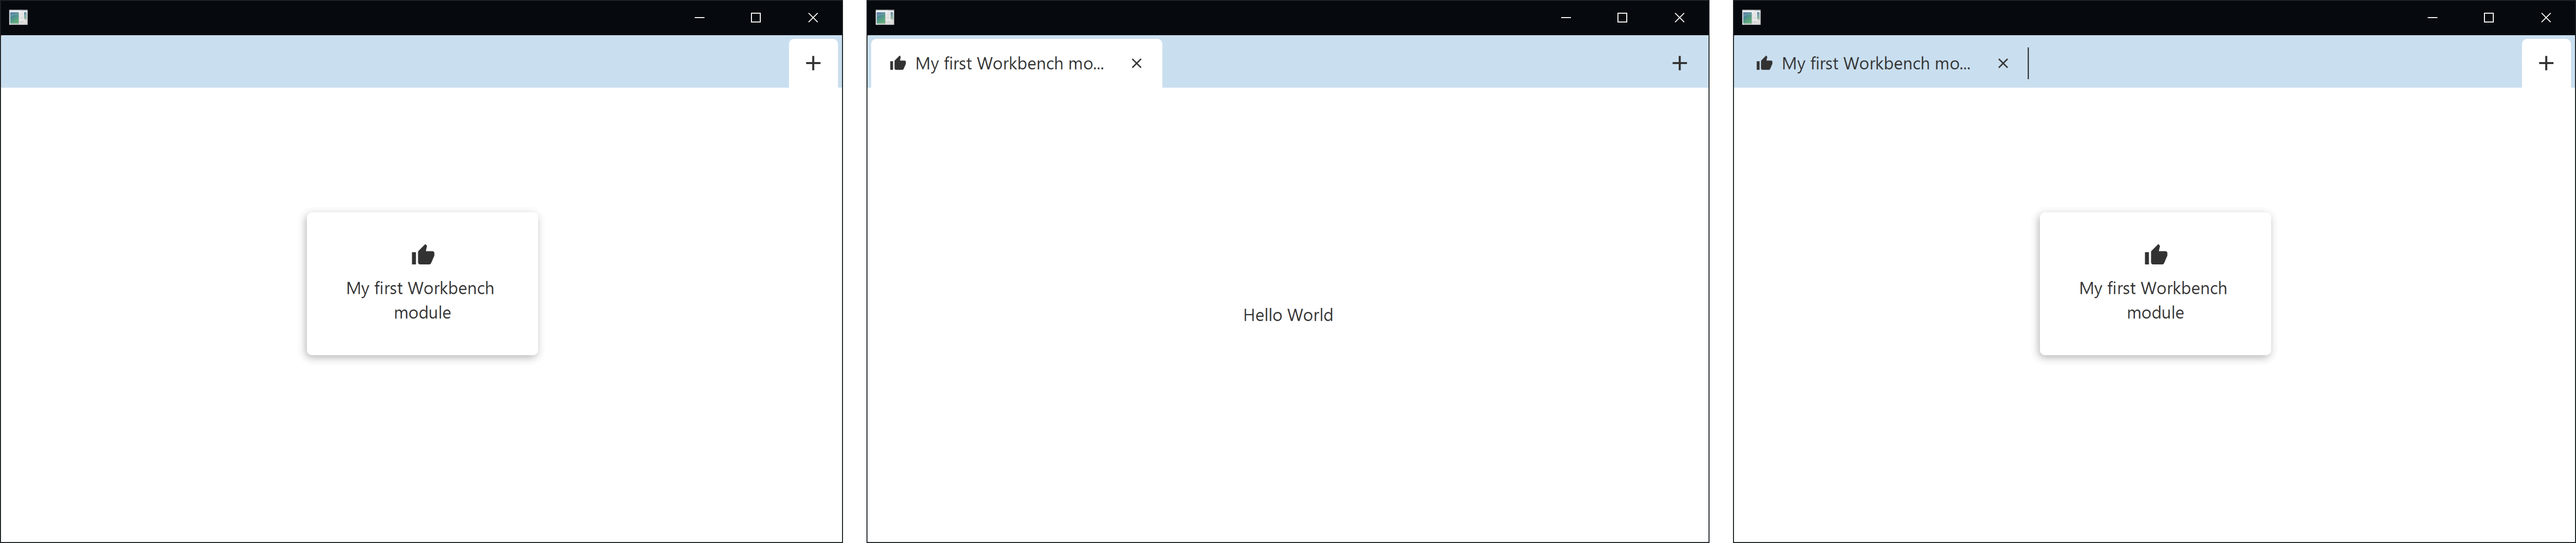
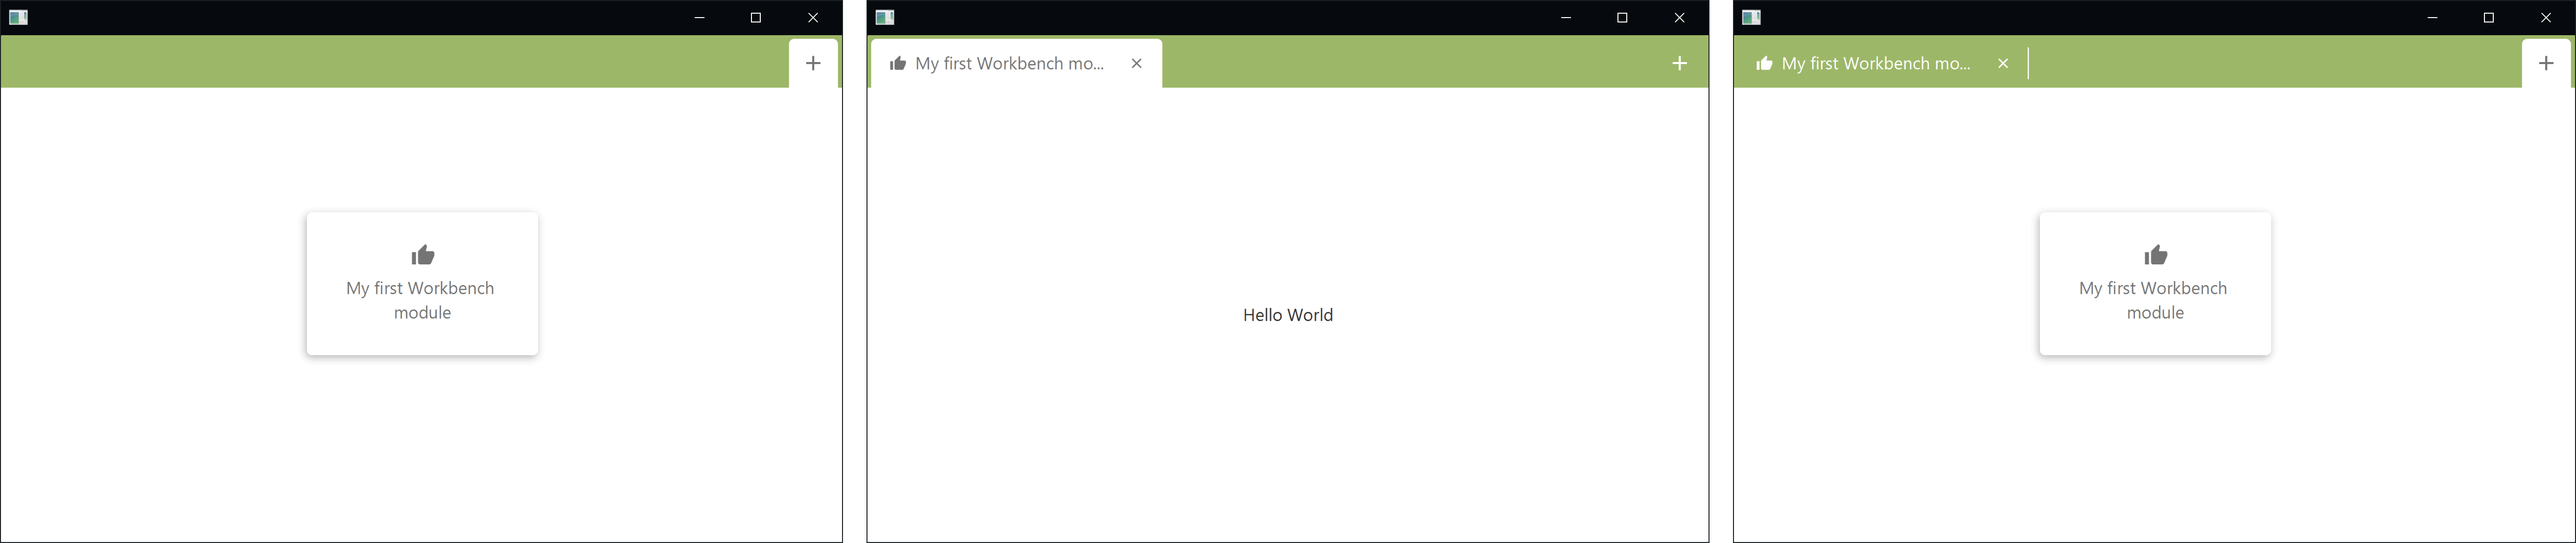
exchanged the light blue of the custom theme example to a slight green

diff --git a/README.md b/README.md
@@ -653,7 +653,7 @@ StackPane.setAlignment(this, Pos.CENTER); // This call is needed to center the o
 # Restyling
 ## Basic Styling
 First of all:
-`WorkbenchFX` does not interrupt with the styles of the developer.
+`WorkbenchFX` does not interrupt with the styles of the modules.
 This way each module can be styled independently and one does not have to worry about the workbench taking influence on the styling.
 
 But it is possible to alter the styles of the workbench itself.
@@ -735,18 +735,18 @@ Changing the colors in the `css` file to something like this:
 
 ```css
 * {
-  -primary-color: #c9deee;
-    -primary-variant-color: #97aaba;
-    -secondary-color: #c9deee;
-    -secondary-variant-color: #97aaba;
-    -background-color: #FFFFFF;
-    -surface-color: #FFFFFF;
-    -error-color: #B00020;
-    -on-primary-color: #333333;
-    -on-secondary-color: #333333;
-    -on-background-color: #333333;
-    -on-surface-color: #333333;
-    -on-error-color: #FFFFFF;
+  -primary-color: #9db668;
+  -primary-variant-color: #7f975f;
+  -secondary-color: #9db668;
+  -secondary-variant-color: #7f975f;
+  -background-color: #FFFFFF;
+  -surface-color: #FFFFFF;
+  -error-color: #B00020;
+  -on-primary-color: #FFFFFF;
+  -on-secondary-color: #FFFFFF;
+  -on-background-color: #747474;
+  -on-surface-color: #747474;
+  -on-error-color: #FFFFFF;
 }
 ```
 
@@ -804,17 +804,17 @@ Assuming the `Tab` and `Tile` are needed to be restyled: Adding following code s
 
 /* Styling the Tab */
 #tab-my-first-workbench-module:selected {
-  -fx-background-color: #333333 !important; /* The background of the Tab */
+  -fx-background-color: #747474 !important; /* The background of the Tab */
   -fx-background-radius: 5px 5px 0 0 !important;
 }
 
 #tab-my-first-workbench-module:selected .text, /* The icon and the text */
 #tab-my-first-workbench-module:selected .glyph-icon {
-  -fx-fill: white !important;
+  -fx-fill: #ffffff !important;
 }
 
 #tab-my-first-workbench-module:selected .shape {
-  -fx-background-color: white !important; /* The close icon */
+  -fx-background-color: #ffffff !important; /* The close icon */
 }
 ```
 
